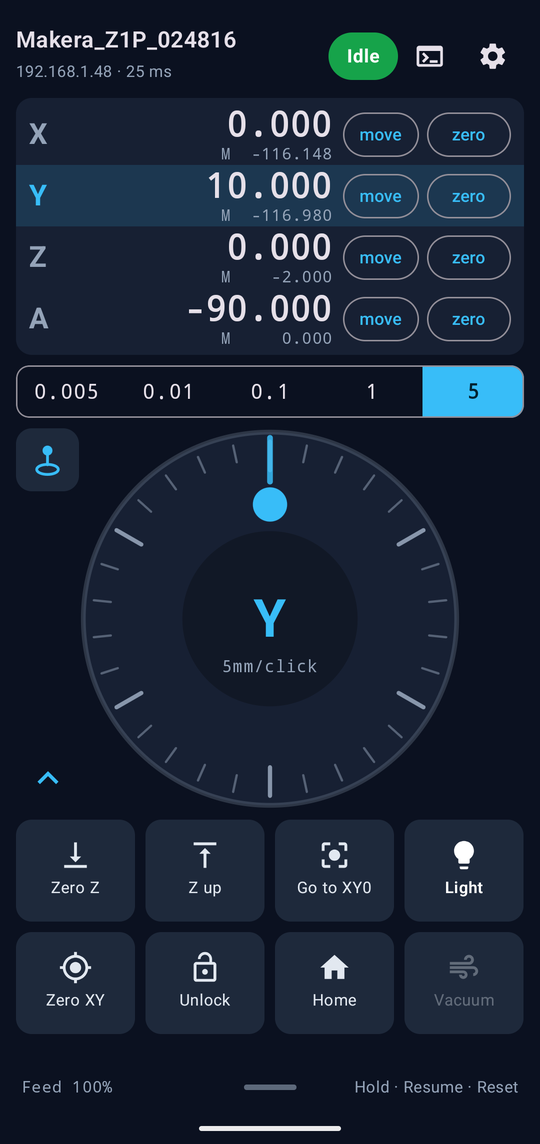
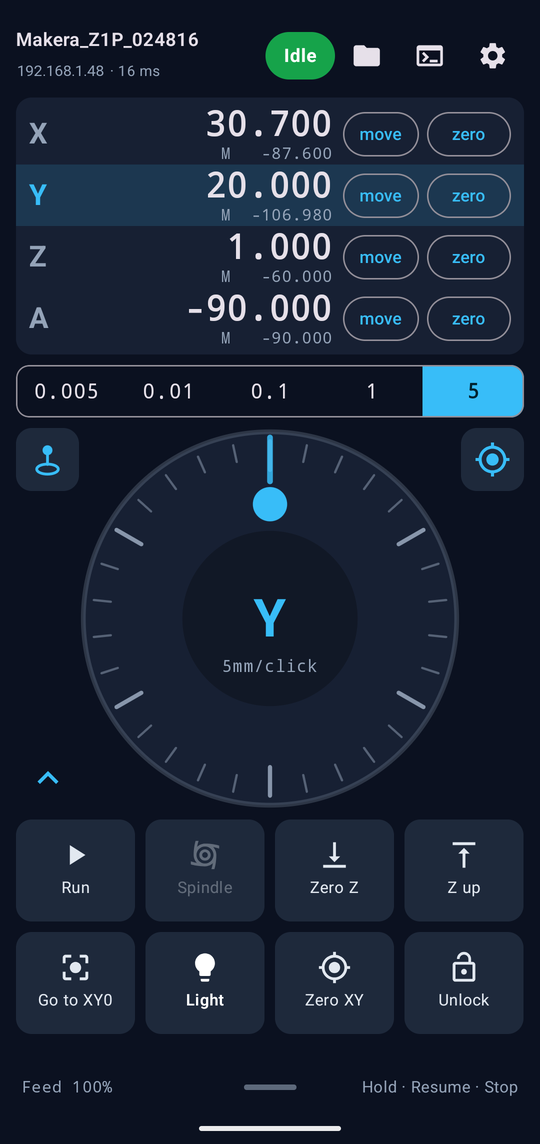
README: fresh screenshots for 0.1.7 (Stop in the drawer, Files, the Run flow, a job, the alarm sheet)

diff --git a/README.md b/README.md
@@ -124,6 +124,20 @@ tap a jog pad, run your own hotkeys, and see live positions, all over Wi-Fi with
 </p>
 
 <p align="center">
+  <img src="docs/screenshots/16_files.png" width="200" alt="Files: the SD card, and a file's sheet with Run">
+  <img src="docs/screenshots/17_run_origin.png" width="200" alt="Run: the origin, with the bed map">
+  <img src="docs/screenshots/18_run_checks.png" width="200" alt="Run: Z probe, margin scan and auto leveling">
+  <img src="docs/screenshots/19_run_summary.png" width="200" alt="Run: time, tools and the precheck routine">
+  <br><sub>Files, then Run: the origin, the checks, and the summary with Start job.</sub>
+</p>
+
+<p align="center">
+  <img src="docs/screenshots/20_job_details.png" width="240" alt="A job running: progress, time left, tools, Cancel job">
+  <img src="docs/screenshots/21_alarm.png" width="240" alt="The alarm sheet with Clear alarm">
+  <br><sub>A job running (with Cancel job), and the alarm sheet.</sub>
+</p>
+
+<p align="center">
   <img src="docs/screenshots/job_drawer_demo.gif" width="300" alt="A job running: the drawer, overrides, job details and a tool change">
   <br><sub>A job running: overrides, the job details, the tool list and a tool change.</sub>
 </p>
